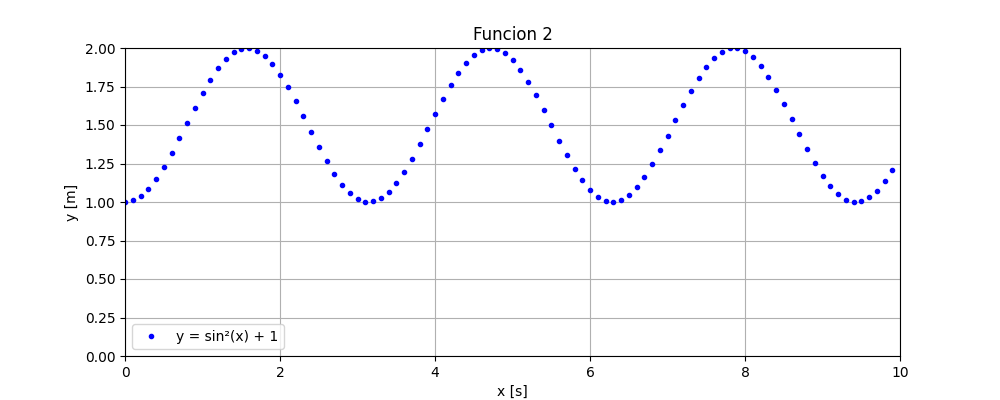
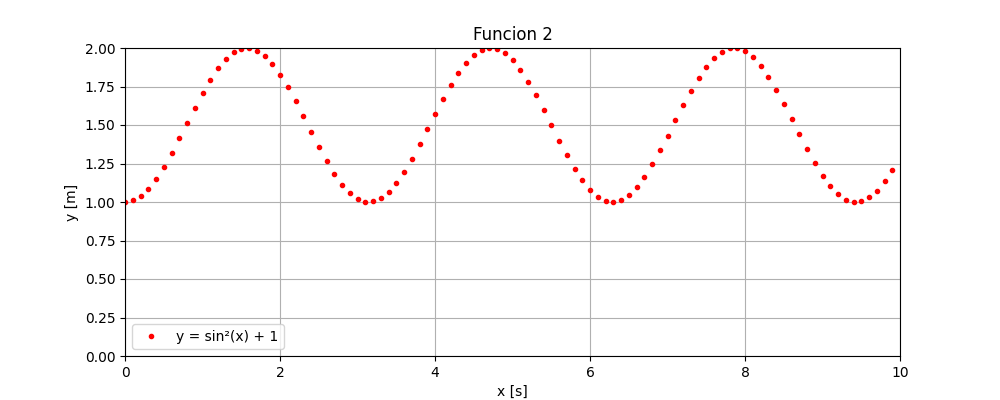
ejercicio matplotlib

diff --git a/EJERCICIOS/11_GraficasMatplotlib.py b/EJERCICIOS/11_GraficasMatplotlib.py
@@ -47,7 +47,7 @@ y3 = 1/x3
 
 def graficar(x, y, titulo, limitex, limitey, legenda):
     plt.figure(figsize=(10, 4))                 #crear figura
-    plt.plot(x, y,".b", label = legenda) 
+    plt.plot(x, y,".r", label = legenda) 
     plt.xlim(limitex[0],limitex[1])                             #limitar eje x
     plt.ylim(limitey[0],limitey[1])                             #limitar eje y
     plt.title(titulo)                          #mostrar titulo
@@ -66,7 +66,7 @@ graficar(x2, y2, "Funcion 3", (-5,5), (0, 3),  "y = e ^ (-1/x)")
 graficar(x3, y3, "Funcion 4", (-5,5), (-1, 1), "y = 1/x")
 
 
-
+#Obtener la grafica mostrada en la figura 5
 
 
 
